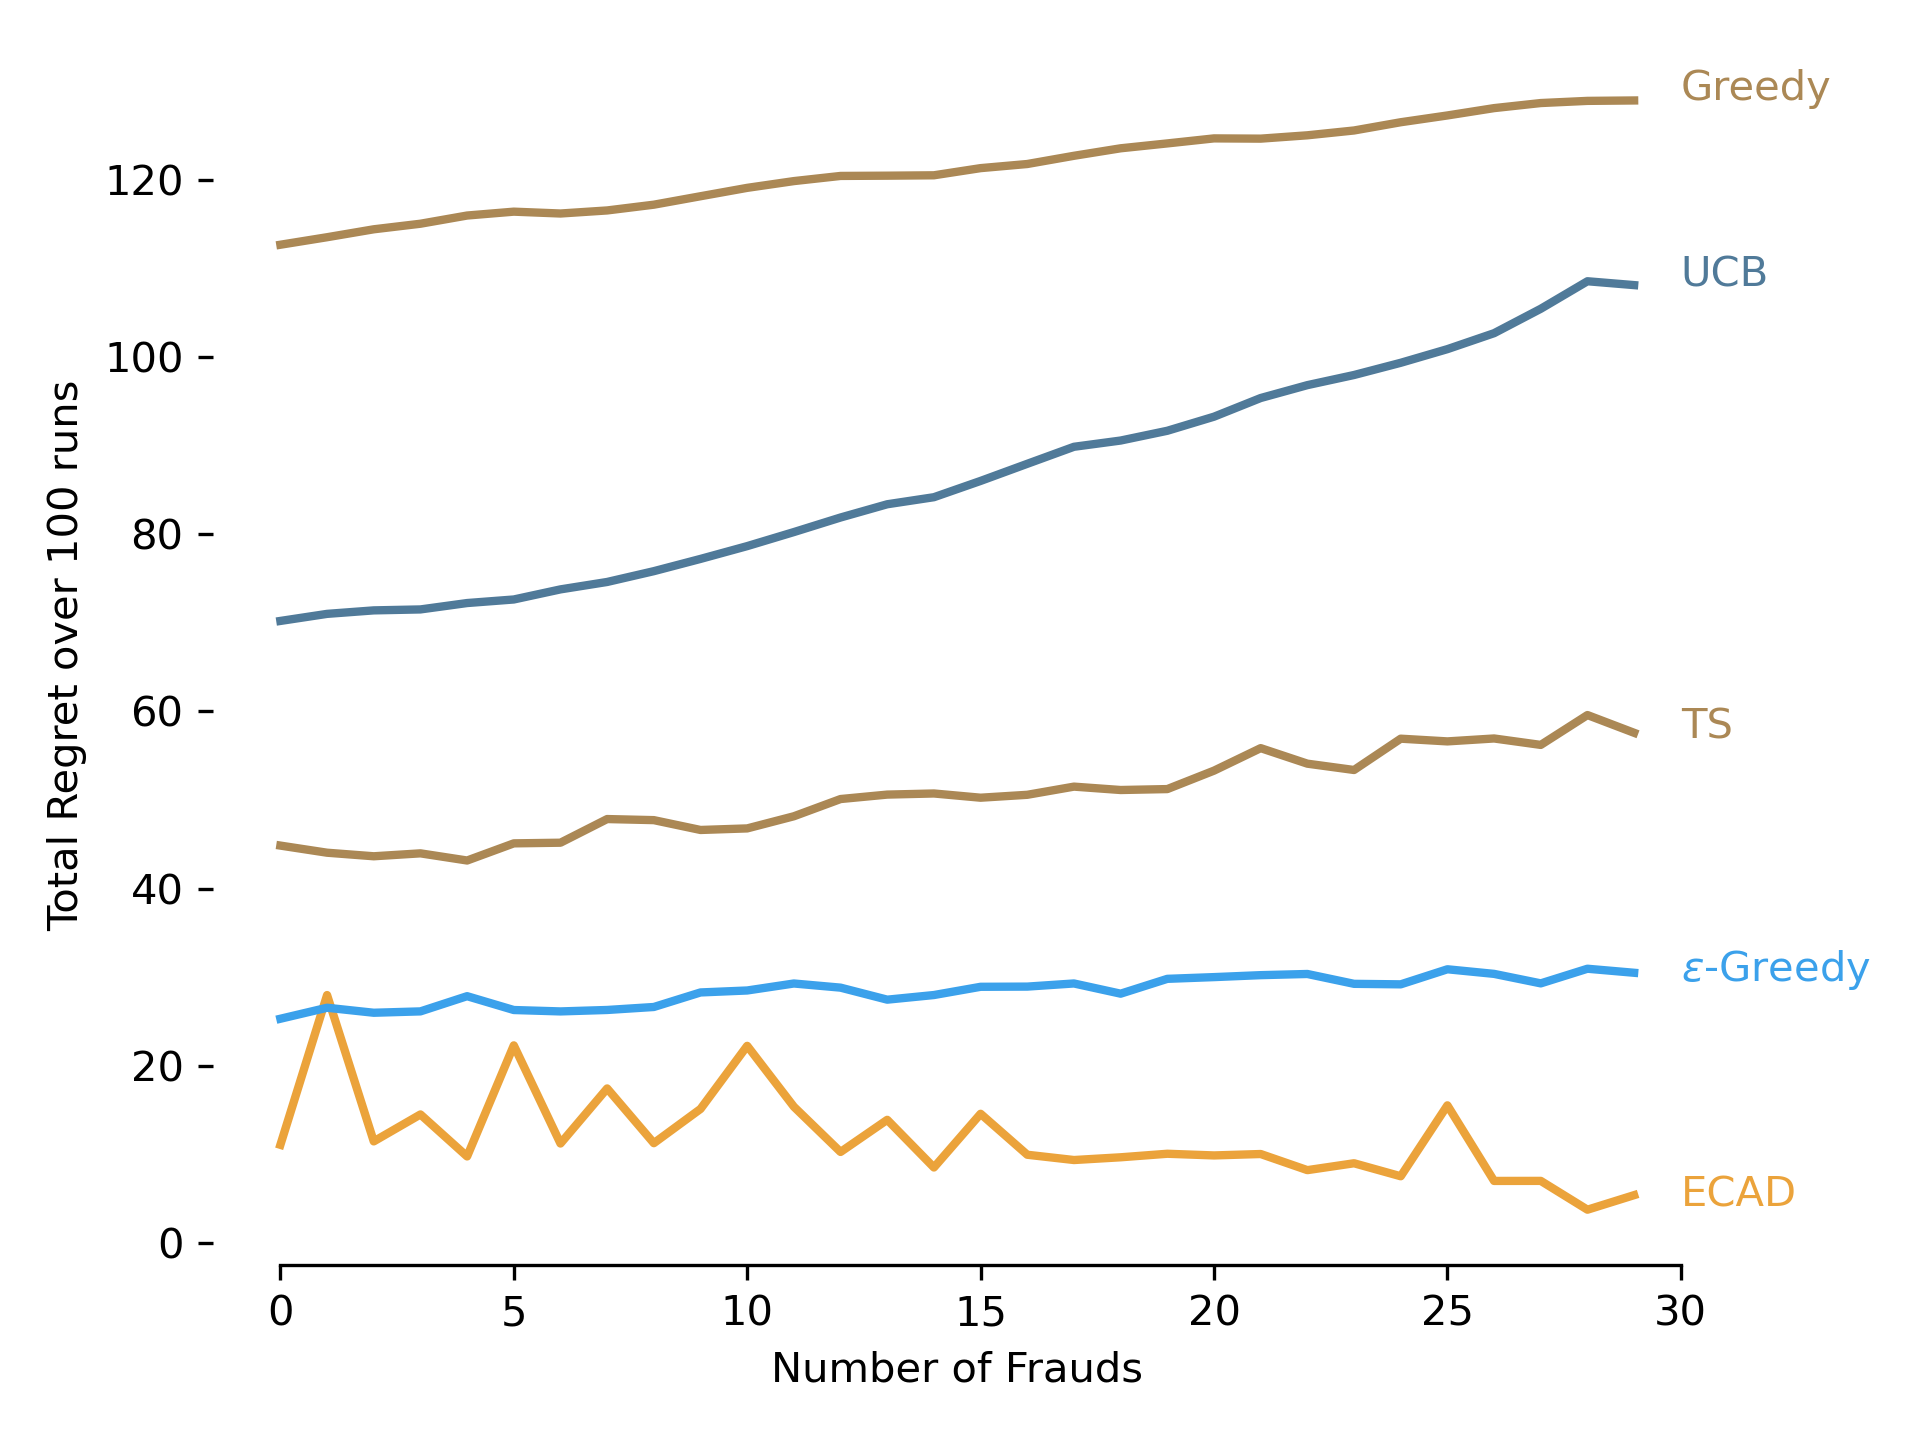
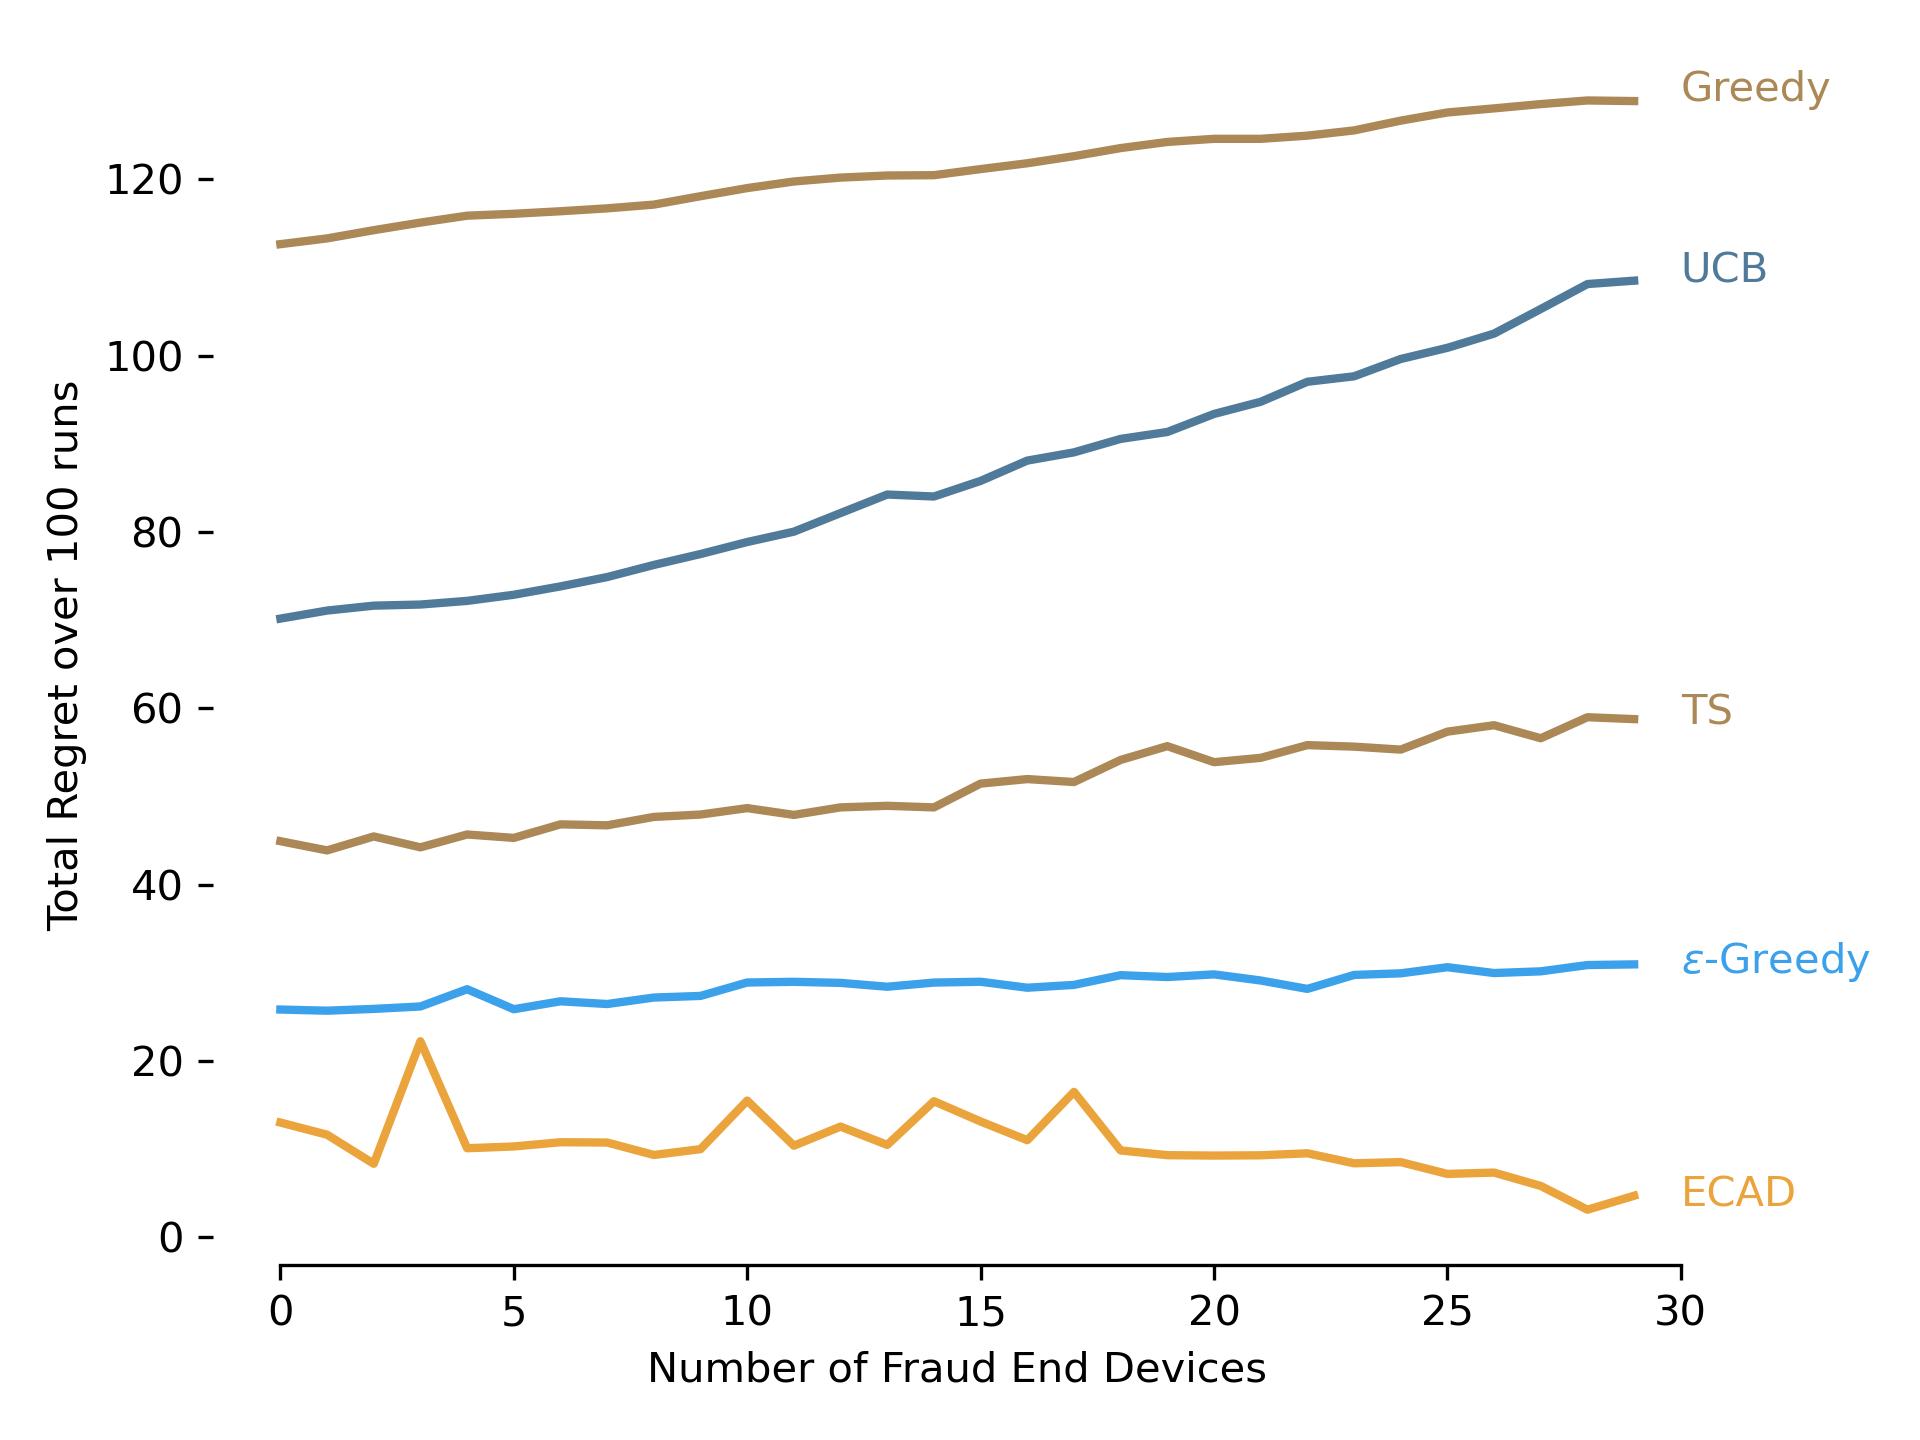
figure fix

diff --git a/main.py b/main.py
@@ -12,7 +12,7 @@ import matplotlib.pyplot as plt
 import matplotlib.colors
 
 
-def main(part1, part2, part3):
+def main(part1, part2, part3, part4):
     np.random.seed(42)
     
 
@@ -157,8 +157,36 @@ def main(part1, part2, part3):
         fig.savefig("plots/PowerConsumption.png")
 
 
+    if part4==True:
+        numOfArms = 30
+        numOfRuns = 100
+        maxSteps = 101
+        optimalArm = 15
+        period = 30
+        fraudArm = 20
+        experiment_runner = ExperimentRunner(num_runs=numOfRuns, max_steps=maxSteps, optimalAlgName='Optimal', figSaveDir="30Arm_15thOptArm_Period30_Steps101_Run100_01ScaleNoise_mod2Fraud_01AmpNoiseReward")
+        mab = MultiArmBandit(numOfArms, period=period, optimalArm=optimalArm, numOfFrauds=0)
+        new_bound_conf = NewConfidenceBound(mab=mab, period=period, max_steps=maxSteps)
+        experiment_runner.runExperiments_part1(alg=new_bound_conf, alg_name=f'ECAD')
+        ucb_bound_conf = UpperConfidenceBound(c=2, mab=mab, max_steps=maxSteps)
+        experiment_runner.runExperiments_part1(alg=ucb_bound_conf, alg_name=f'UCB')
+        optimalArg = OptimalAlgorithm(optimalArm, maxSteps, mab=mab)
+        experiment_runner.runExperiments_part1(alg=optimalArg, alg_name=f'Optimal')
+        q1 = 1
+        greedy_optimistic_ini = Greedy(Q1=q1, mab=mab)
+        experiment_runner.runExperiments_part1(alg=greedy_optimistic_ini, alg_name=f'Greedy')
+        eps = 0.1
+        e_greedy = Egreedy(eps=eps, mab=mab)
+        experiment_runner.runExperiments_part1(alg=e_greedy, alg_name=f"$\epsilon$-Greedy")
+        thompson_sampling = ThompsonSampling(maxSteps, mab)
+        experiment_runner.runExperiments_part1(alg=thompson_sampling, alg_name=f'Thompson Sampling')
+
+        experiment_runner.plot_part1()
+        experiment_runner.plotInstantaneousRegret()
+        experiment_runner.plotCumulativeRegret()
+
         
 
             
 
-main(part1=False, part2=False, part3=True)
+main(part1=False, part2=True, part3=False)

diff --git a/helpers/ExperimentRunner.py b/helpers/ExperimentRunner.py
@@ -149,7 +149,7 @@ class ExperimentRunner:
         
         ax.plot(cumsumArrayNCB, label="ECAD",
             color = colors[0], linestyle="-", linewidth=2)
-        ax.text(numFraud, cumsumArrayNCB[-1] - 0.01, "NCB",
+        ax.text(numFraud, cumsumArrayNCB[-1] - 0.01, "ECAD",
             color=colors[0], fontweight="normal", horizontalalignment="left", verticalalignment="center")
         ax.plot(cumsumArrayUCB, label="UCB",
             color = colors[1], linestyle="-", linewidth=2)
@@ -175,7 +175,7 @@ class ExperimentRunner:
         ax.xaxis.set_ticks_position("bottom")
         ax.spines["bottom"].set_bounds(0,numFraud)
         ax.set_ylabel(f'Total Reward over {self.num_runs} runs')
-        ax.set_xlabel(f'Number of Frauds')
+        ax.set_xlabel(f'Number of Fraud End Devices')
         fig.tight_layout()
         #create the directory if it does not exist
         directory = "plots/" + self.figSaveDir
@@ -237,7 +237,7 @@ class ExperimentRunner:
         ax.xaxis.set_ticks_position("bottom")
         ax.spines["bottom"].set_bounds(0,numFraud)
         ax.set_ylabel(f'Total Regret over {self.num_runs} runs')
-        ax.set_xlabel(f'Number of Frauds')
+        ax.set_xlabel(f'Number of Fraud End Devices')
         fig.tight_layout()
         #create the directory if it does not exist
         directory = "plots/" + self.figSaveDir
@@ -270,7 +270,7 @@ class ExperimentRunner:
         plt.plot(list(
             df3.columns.get_level_values(0)), df3.values.flatten(), label="ucb")
         plt.plot(list(
-            df4.columns.get_level_values(0)), df4.values.flatten(), label="ncb")
+            df4.columns.get_level_values(0)), df4.values.flatten(), label="ECAD")
         ax = plt.gca()
         ax.set_title(
             'Summary of Results for Multi-Armed Bandit with different algorithms')
